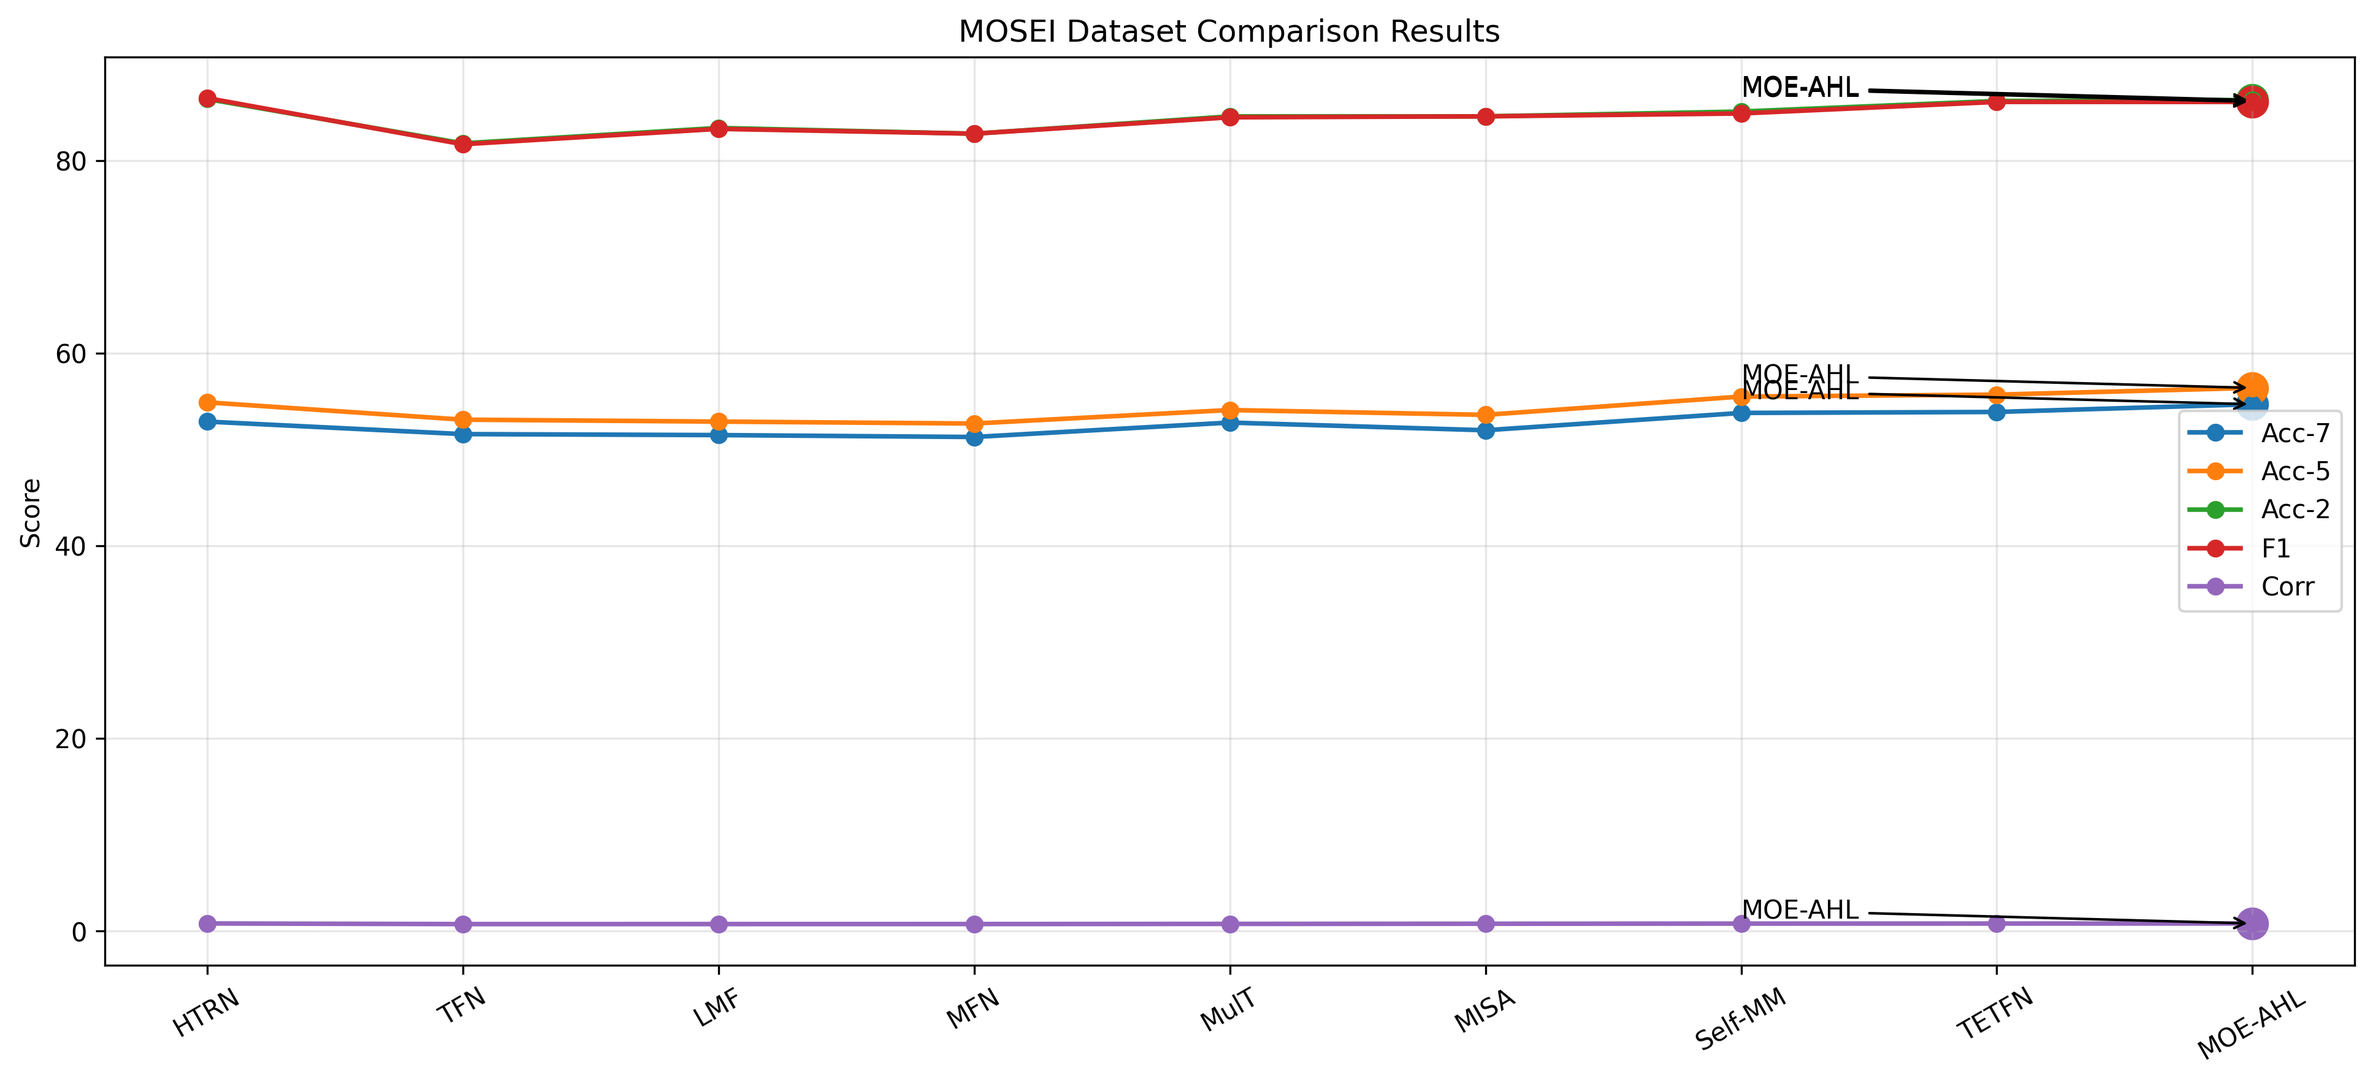
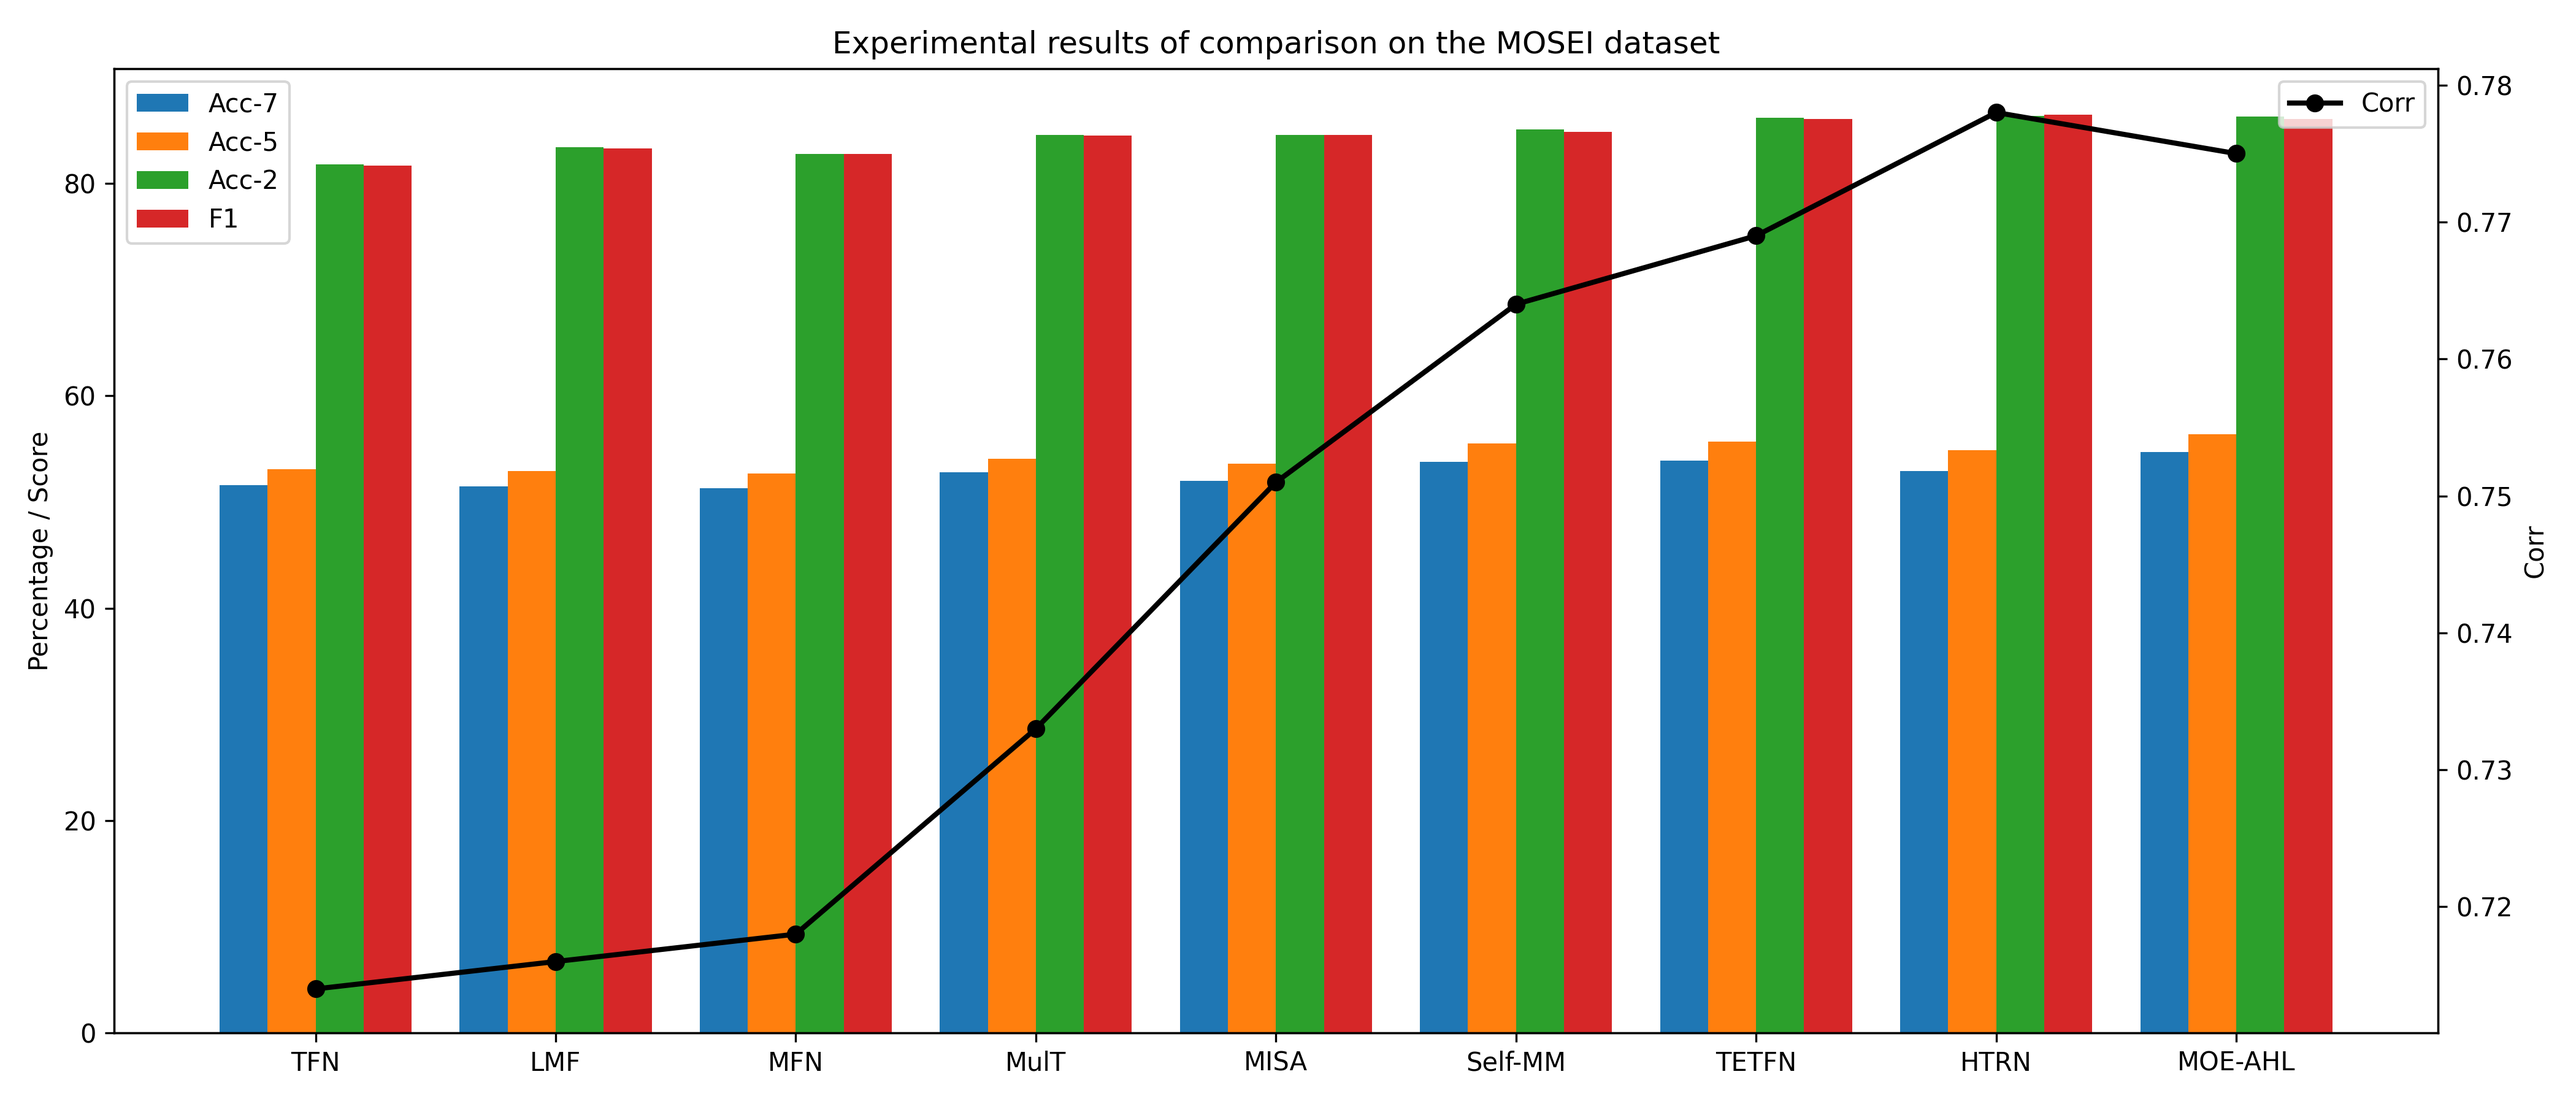
画图提交

diff --git a/plot/mosei.py b/plot/mosei.py
@@ -1,48 +1,43 @@
 import matplotlib.pyplot as plt
 import numpy as np
 
-# 模型名称
-models = ["HTRN", "TFN", "LMF", "MFN", "MulT", "MISA", "Self-MM", "TETFN", "MOE-AHL"]
+# 1. 数据准备 (排除了 MAE 指标)
+models = ['TFN', 'LMF', 'MFN', 'MulT', 'MISA', 'Self-MM', 'TETFN', 'HTRN', 'MOE-AHL']
+acc7 = [51.6, 51.5, 51.3, 52.8, 52.0, 53.8, 53.9, 52.9, 54.7]
+acc5 = [53.1, 52.9, 52.7, 54.1, 53.6, 55.5, 55.7, 54.9, 56.4]
+acc2 = [81.8, 83.4, 82.8, 84.6, 84.6, 85.1, 86.2, 86.4, 86.3]
+f1 = [81.7, 83.3, 82.8, 84.5, 84.6, 84.9, 86.1, 86.5, 86.1]
+corr = [0.714, 0.716, 0.718, 0.733, 0.751, 0.764, 0.769, 0.778, 0.775]
 
-# 数据（不含MAE）
-acc7 = [52.9, 51.6, 51.5, 51.3, 52.8, 52.0, 53.8, 53.9, 54.7]
-acc5 = [54.9, 53.1, 52.9, 52.7, 54.1, 53.6, 55.5, 55.7, 56.4]
-acc2 = [86.4, 81.8, 83.4, 82.8, 84.6, 84.6, 85.1, 86.2, 86.3]
-f1   = [86.5, 81.7, 83.3, 82.8, 84.5, 84.6, 84.9, 86.1, 86.1]
-corr = [0.778, 0.714, 0.716, 0.718, 0.733, 0.751, 0.764, 0.769, 0.775]
+x = np.arange(len(models))  # 模型标签的位置
+width = 0.2  # 柱子的宽度
 
-x = np.arange(len(models))
+# 创建画布和主坐标轴 (因为模型多了一个，这里稍微加宽了画布到 14)
+fig, ax1 = plt.subplots(figsize=(14, 6))
 
-plt.figure(figsize=(13, 6))
+# 2. 在主 Y 轴绘制分组柱状图 (Acc-7, Acc-5, Acc-2, F1)
+rects1 = ax1.bar(x - 1.5*width, acc7, width, label='Acc-7')
+rects2 = ax1.bar(x - 0.5*width, acc5, width, label='Acc-5')
+rects3 = ax1.bar(x + 0.5*width, acc2, width, label='Acc-2')
+rects4 = ax1.bar(x + 1.5*width, f1, width, label='F1')
 
-# 折线图
-plt.plot(x, acc7, marker='o', linewidth=1.8, label='Acc-7')
-plt.plot(x, acc5, marker='o', linewidth=1.8, label='Acc-5')
-plt.plot(x, acc2, marker='o', linewidth=1.8, label='Acc-2')
-plt.plot(x, f1,   marker='o', linewidth=1.8, label='F1')
-plt.plot(x, corr, marker='o', linewidth=1.8, label='Corr')
+# 设置主 Y 轴相关属性
+ax1.set_ylabel('Percentage / Score')
+ax1.set_title('Experimental results of comparison on the MOSEI dataset')
+ax1.set_xticks(x)
+ax1.set_xticklabels(models)
+ax1.legend(loc='upper left')
 
-# ===== 强调 MOE-AHL =====
-moe_idx = len(models) - 1
+# 3. 创建副 Y 轴并绘制 Corr 的折线图
+ax2 = ax1.twinx()
+ax2.plot(x, corr, color='black', marker='o', linestyle='-', linewidth=2, label='Corr')
 
-for y in [acc7, acc5, acc2, f1, corr]:
-    plt.scatter(moe_idx, y[moe_idx], s=140)
-    plt.annotate(
-        "MOE-AHL",
-        xy=(moe_idx, y[moe_idx]),
-        xytext=(moe_idx - 2, y[moe_idx] + 0.5),
-        arrowprops=dict(arrowstyle="->", linewidth=1)
-    )
+# 设置副 Y 轴相关属性
+ax2.set_ylabel('Corr', color='black')
+ax2.tick_params(axis='y', labelcolor='black')
+ax2.legend(loc='upper right')
 
-plt.xticks(x, models, rotation=30)
-plt.ylabel("Score")
-plt.title("MOSEI Dataset Comparison Results")
-plt.grid(alpha=0.3)
-plt.legend()
-
+# 4. 优化布局并显示/保存图表
 plt.tight_layout()
-
-# ===== 保存图片 =====
-plt.savefig("mosei.png", dpi=300, bbox_inches='tight')
-
+plt.savefig('mosei.png', dpi=300)
 plt.show()
